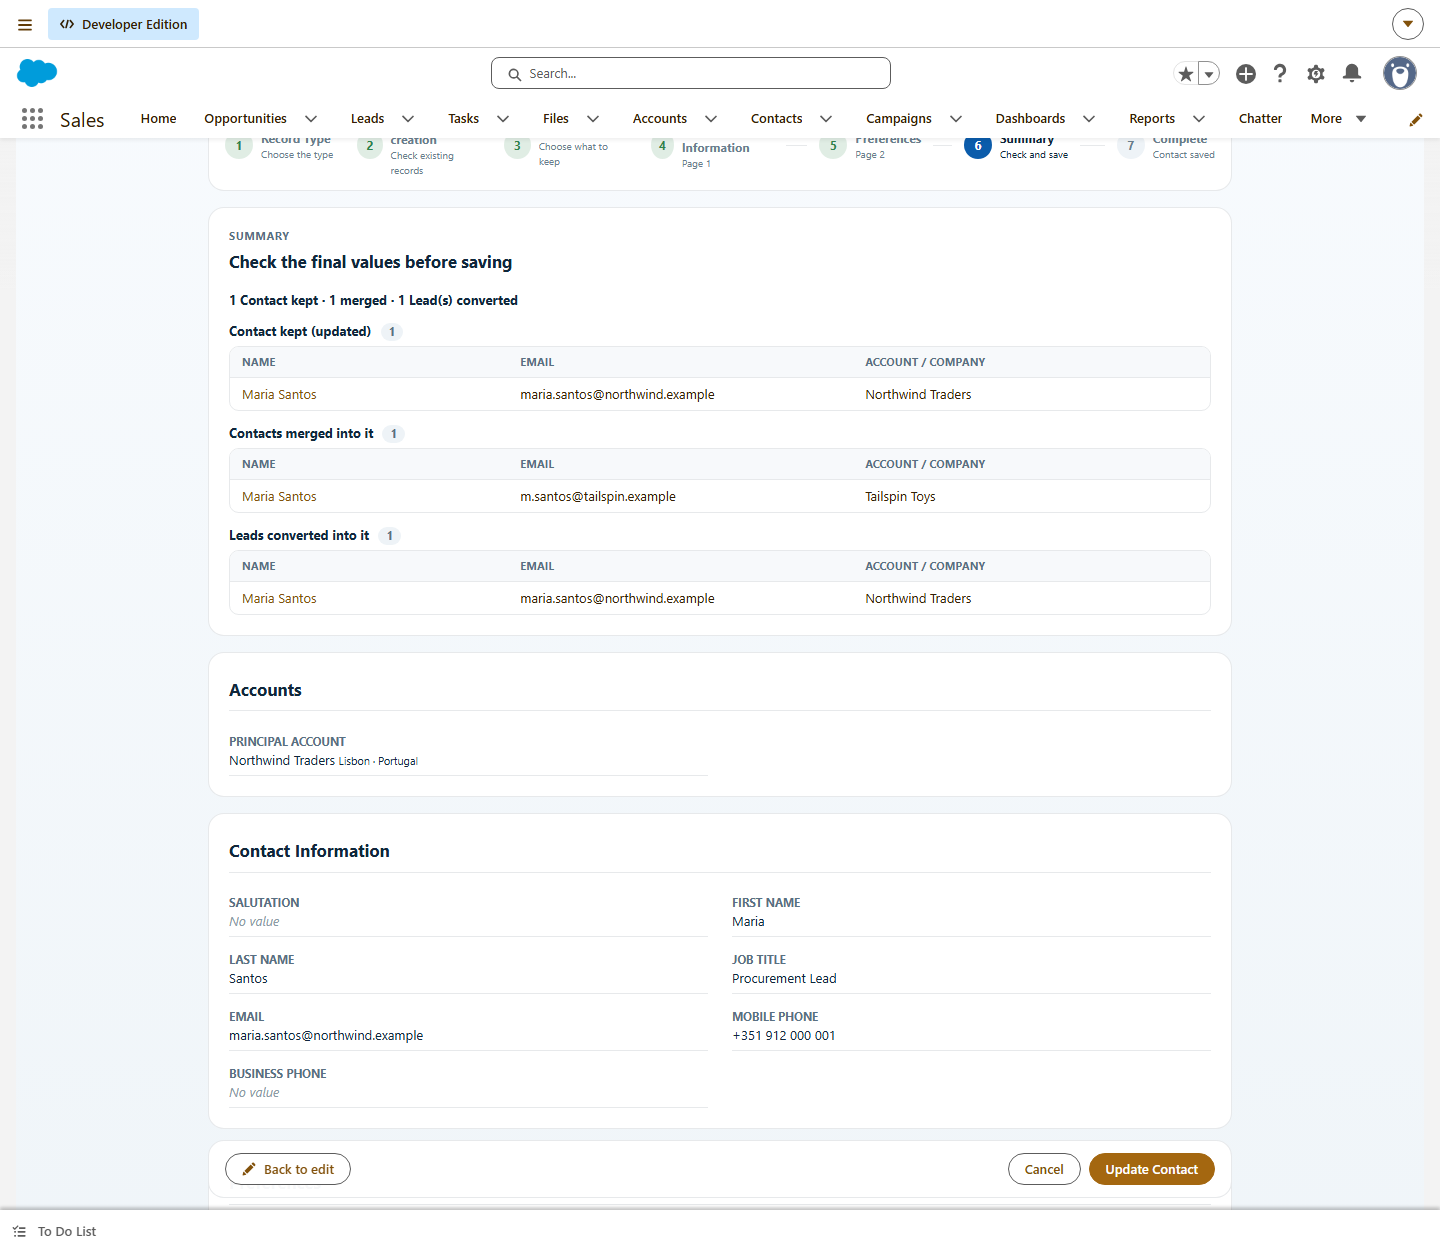
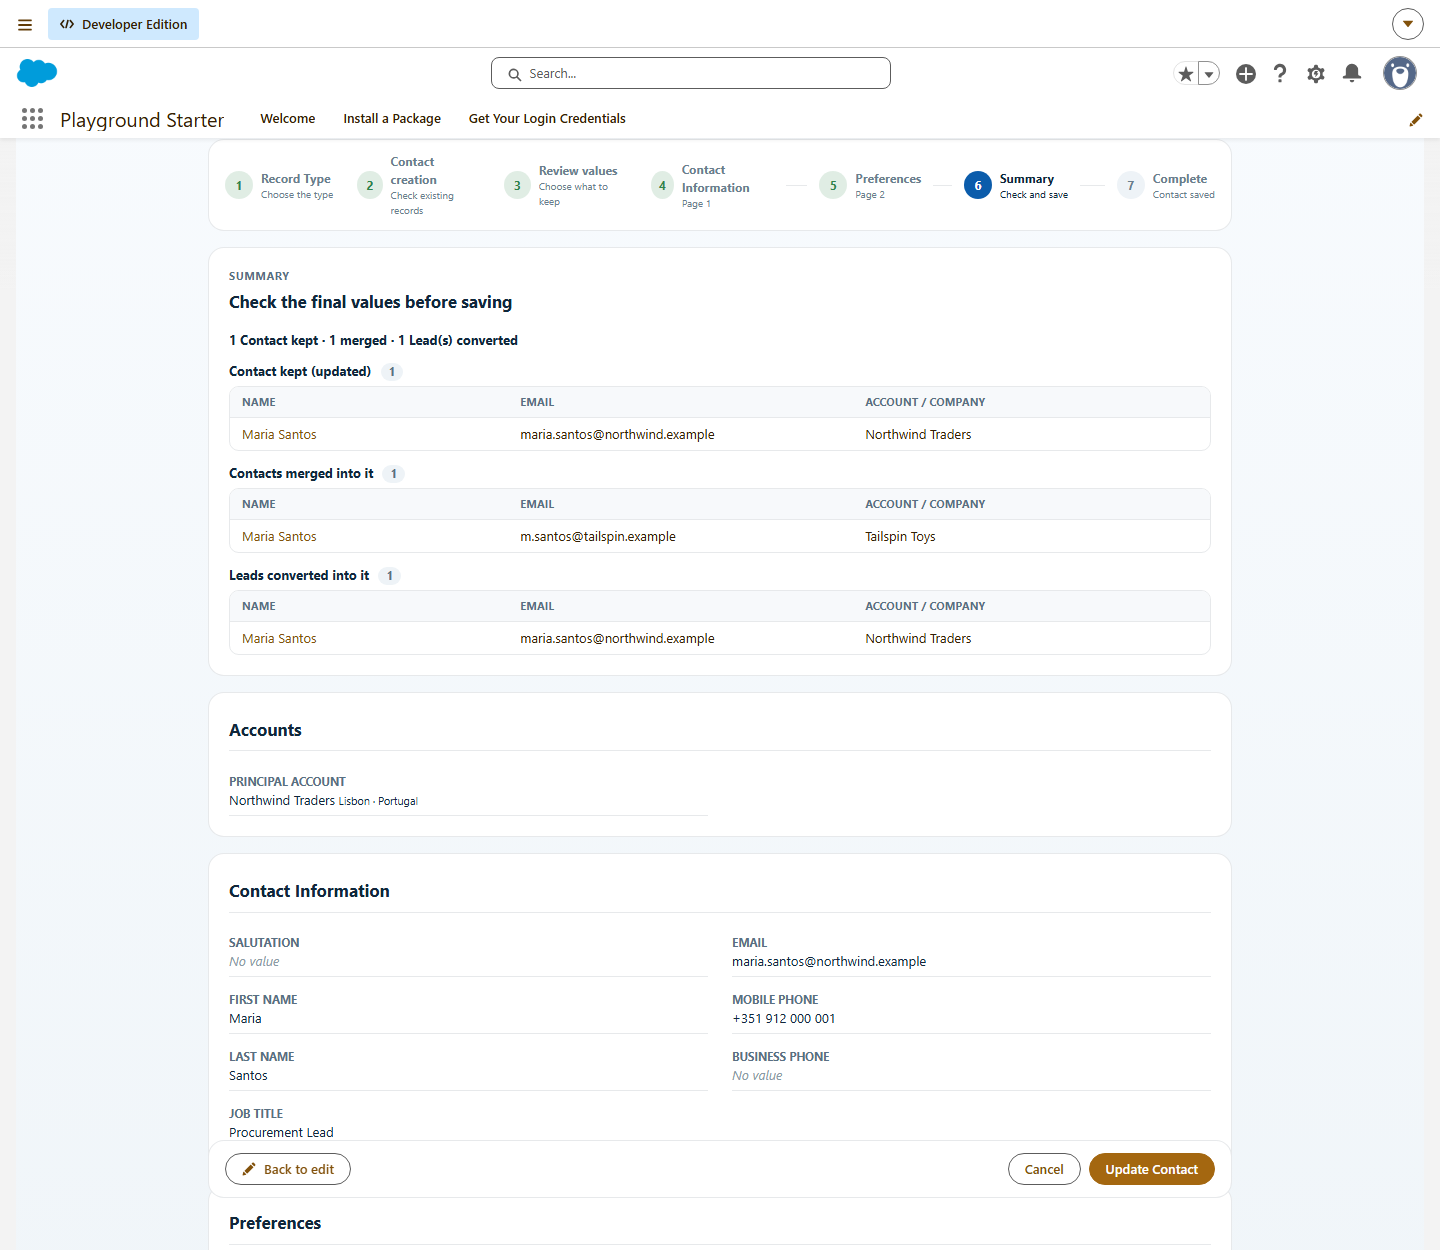
Summary step follows the form columns
The summary listed each section's fields in one sequence over a two-column grid, so
fields of the right column appeared between left-column fields (e.g. End Date not under
Start Date). Each section now renders the left and right columns of the form.

diff --git a/force-app/main/default/lwc/recordWizard/recordWizard.html b/force-app/main/default/lwc/recordWizard/recordWizard.html
@@ -416,10 +416,14 @@
                     <section key={section.key} class="card">
                         <h2 class="section-title">{section.name}</h2>
                         <div class="summary-grid">
-                            <template for:each={section.rows} for:item="row">
-                                <div key={row.key} class="summary-row">
-                                    <span class="summary-label">{row.label}</span>
-                                    <span class={row.valueClass}>{row.value}</span>
+                            <template for:each={section.columns} for:item="column">
+                                <div key={column.key} class="summary-column">
+                                    <template for:each={column.rows} for:item="row">
+                                        <div key={row.key} class="summary-row">
+                                            <span class="summary-label">{row.label}</span>
+                                            <span class={row.valueClass}>{row.value}</span>
+                                        </div>
+                                    </template>
                                 </div>
                             </template>
                         </div>

diff --git a/force-app/main/default/lwc/recordWizard/recordWizard.js b/force-app/main/default/lwc/recordWizard/recordWizard.js
@@ -919,10 +919,17 @@ export default class RecordWizard extends NavigationMixin(LightningElement) {
         });
         return [...groups.values()]
             .sort((x, y) => x.page - y.page || x.order - y.order || x.name.localeCompare(y.name))
-            .map((group) => ({
-                ...group,
-                rows: group.rows.sort((x, y) => x.columnNumber - y.columnNumber || x.sortOrder - y.sortOrder)
-            }));
+            .map((group) => {
+                // Same two columns as the form: left column fields under each other, right column next to them.
+                const sorted = group.rows.sort((x, y) => x.sortOrder - y.sortOrder);
+                return {
+                    ...group,
+                    columns: [
+                        { key: 'left', rows: sorted.filter((r) => r.columnNumber !== 2) },
+                        { key: 'right', rows: sorted.filter((r) => r.columnNumber === 2) }
+                    ]
+                };
+            });
     }
 
     get summaryRelated() {

diff --git a/force-app/main/default/lwc/recordWizard/recordWizard.css b/force-app/main/default/lwc/recordWizard/recordWizard.css
@@ -630,3 +630,9 @@
     gap: 0.25rem 1rem;
     margin: -0.1rem 0 0.4rem 0.25rem;
 }
+
+.summary-column {
+    display: flex;
+    flex-direction: column;
+    gap: 0.5rem;
+}
